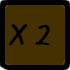
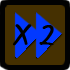
Button images changed / Zombie base image added
Changed some button images to more intuitive images.
When player select zombie, base image will be a cemetery image

diff --git a/src/base.js b/src/base.js
@@ -1,9 +1,5 @@
-/*
-var baseImage = new Image();
-baseImage.src = "img/tower.png";
-/*/
-var baseImg = {
-	image_src : "img/Base.png",
+var humanBaseImg = {
+	image_src : "img/base_human.png",
 	max_num_sprites : 4,
 	num_sprites_horz : 4,
 	num_sprites_vert : 1,
@@ -11,15 +7,32 @@ var baseImg = {
 	sprite_height : 0,
 	image : null
 };
-baseImg.image = new Image();
-baseImg.image.src = baseImg.image_src;
-baseImg.image.onload = (function(){
-	baseImg.sprite_width = Math.floor(baseImg.image.width / baseImg.num_sprites_horz);
-	baseImg.sprite_height = Math.floor(baseImg.image.height / baseImg.num_sprites_vert);
+humanBaseImg.image = new Image();
+humanBaseImg.image.src = humanBaseImg.image_src;
+humanBaseImg.image.onload = (function(){
+	humanBaseImg.sprite_width = Math.floor(humanBaseImg.image.width / humanBaseImg.num_sprites_horz);
+	humanBaseImg.sprite_height = Math.floor(humanBaseImg.image.height / humanBaseImg.num_sprites_vert);
     numLoadedAssets++;
 });
 numAllAssets++;
-//*/
+
+var zombieBaseImg = {
+	image_src : "img/base_zombie.png",
+	max_num_sprites : 4,
+	num_sprites_horz : 4,
+	num_sprites_vert : 1,
+	sprite_width : 0,
+	sprite_height : 0,
+	image : null
+};
+zombieBaseImg.image = new Image();
+zombieBaseImg.image.src = zombieBaseImg.image_src;
+zombieBaseImg.image.onload = (function(){
+	zombieBaseImg.sprite_width = Math.floor(zombieBaseImg.image.width / zombieBaseImg.num_sprites_horz);
+	zombieBaseImg.sprite_height = Math.floor(zombieBaseImg.image.height / zombieBaseImg.num_sprites_vert);
+    numLoadedAssets++;
+});
+numAllAssets++;
 
 var hpImage = new Image();
 hpImage.src = "img/base_hp_bar.png";
@@ -49,12 +62,9 @@ var baseObject = function(pos_x, pos_y )
     this.z = 0;
     this.width = this.unitInfo.width;
     this.height = this.unitInfo.height;
-	/*
-	this.image = baseImage;
-	this.max_num_sprites = 1;
-	/*/
+	this.Img = attacker_type==="human"?zombieBaseImg:humanBaseImg;
 	this.spriteIndex = 0;
-	//*/
+	
 
 	this.hpBar = new HPBar( this );
 
@@ -69,7 +79,7 @@ var baseObject = function(pos_x, pos_y )
 	{
 		this.hp -= damage;
 		//*
-		if((this.max_hp-this.hp) > ((this.max_hp/baseImg.max_num_sprites)*(this.spriteIndex+1)))
+		if((this.max_hp-this.hp) > ((this.max_hp/this.Img.max_num_sprites)*(this.spriteIndex+1)))
 		{
 			this.spriteIndex++;
 		}
@@ -77,7 +87,7 @@ var baseObject = function(pos_x, pos_y )
 		if(this.hp <= 0)
 		{
 			this.lose();
-			this.spriteIndex = (baseImg.max_num_sprites-1);
+			this.spriteIndex = (this.Img.max_num_sprites-1);
 		}
 	};
 
@@ -140,7 +150,7 @@ var baseObject = function(pos_x, pos_y )
 		/*/
 		return 0;
 		/*/
-        return baseImg.sprite_width * (Math.floor(this.spriteIndex)%baseImg.num_sprites_horz);
+        return this.Img.sprite_width * (Math.floor(this.spriteIndex)%this.Img.num_sprites_horz);
 		//*/
     };
     this.get_source_y = function()
@@ -148,10 +158,10 @@ var baseObject = function(pos_x, pos_y )
         return 0;
     };
 	this.get_sprite_width = function() {
-		return baseImg.sprite_width;
+		return this.Img.sprite_width;
 	};
 	this.get_sprite_height = function() {
-		return baseImg.sprite_height;
+		return this.Img.sprite_height;
 	};	
 
     this.get_center_x = function()
@@ -189,7 +199,7 @@ var baseObject = function(pos_x, pos_y )
 		/*
 		context.drawImage(this.image, this.get_source_x(), this.get_source_y(), baseImage.width, baseImage.height, this.get_x(), this.get_y(), this.width, this.height);
 		/*/
-		context.drawImage(baseImg.image, this.get_source_x(), this.get_source_y(),this.get_sprite_width(), this.get_sprite_height(),this.get_x(), this.get_y(), this.width, this.height);
+		context.drawImage(this.Img.image, this.get_source_x(), this.get_source_y(),this.get_sprite_width(), this.get_sprite_height(),this.get_x(), this.get_y(), this.width, this.height);
 		//*/
 
 		this.hpBar.render(context );
